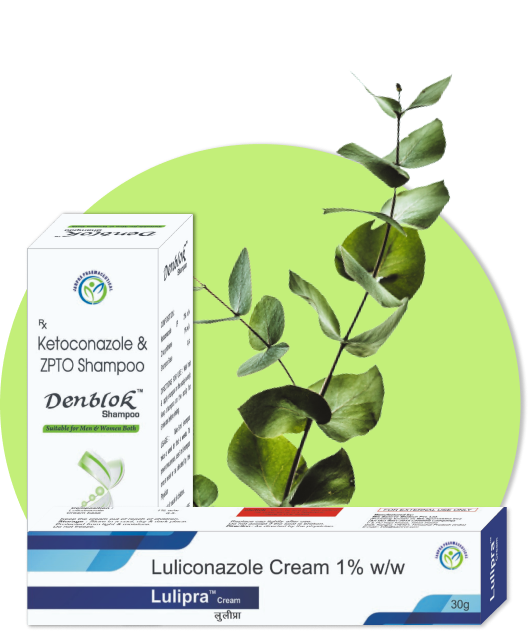
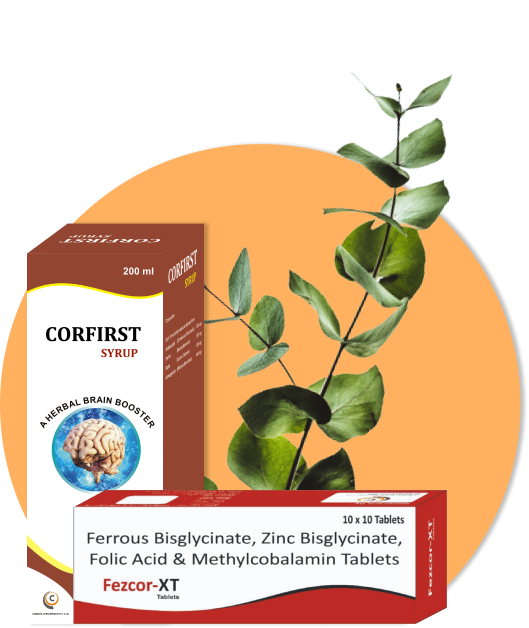
complete about and product

diff --git a/product.html b/product.html
@@ -144,12 +144,12 @@
         <section class="grid product-grid">
           <section class="product">
             <div class="product-img">
-              <img src="img/product/Denblok-shampoo.png" alt="Denblok Shampoo Product Image" loading="lazy" />
+              <img src="img/product/corfirst.png" alt="Corfirst Product Image" loading="lazy" />
             </div>
             <div class="product_details center">
-              <h3 class="head-h3 product_details-h3">Denblok Shampoo</h3>
-              <p class="paragraph paragraph-small product_details-p">For Dandruff Free Hair</p>
-              <button onclick="window.location.href = 'products/denblok.html';" class="btn center product-btn">
+              <h3 class="head-h3 product_details-h3">Corfirst</h3>
+              <p class="paragraph paragraph-small product_details-p">A Herbal Brain Booster</p>
+              <button onclick="window.location.href = 'products/corfirst.html';" class="btn center product-btn">
                 <span>Read More</span>
                 <span class="btn-arrow"><img src="img/common/button-arrow.svg" alt="" /></span>
               </button>
@@ -158,12 +158,12 @@
 
           <section class="product">
             <div class="product-img">
-              <img src="img/product/Hairjan-tablets.png" alt="Denblok Shampoo Product Image" loading="lazy" />
+              <img src="img/product/braincor.png" alt="Braincor Product Image" loading="lazy" />
             </div>
             <div class="product_details center">
-              <h3 class="head-h3 product_details-h3">Hairjan Tablets</h3>
-              <p class="paragraph paragraph-small product_details-p">Give Strenght to avoid Hairloss.</p>
-              <button onclick="window.location.href = 'products/hairjan.html';" class="btn center product-btn">
+              <h3 class="head-h3 product_details-h3">Braincor</h3>
+              <p class="paragraph paragraph-small product_details-p">For rise in new neurons in Brain</p>
+              <button onclick="window.location.href = 'products/braincor.html';" class="btn center product-btn">
                 <span>Read More</span>
                 <span class="btn-arrow"><img src="img/common/button-arrow.svg" alt="" /></span>
               </button>
@@ -172,12 +172,12 @@
 
           <section class="product">
             <div class="product-img">
-              <img src="img/product/Glutapra-tablets.png" alt="Glutapra Tablets Product Image" loading="lazy" />
+              <img src="img/product/bonetouch.png" alt="Bonetouch Product Image" loading="lazy" />
             </div>
             <div class="product_details center">
-              <h3 class="head-h3 product_details-h3">Glutapra</h3>
-              <p class="paragraph paragraph-small product_details-p">For the Glowing and Beautiful Skin</p>
-              <button onclick="window.location.href = 'products/glutapra.html';" class="btn center product-btn">
+              <h3 class="head-h3 product_details-h3">Bonetouch</h3>
+              <p class="paragraph paragraph-small product_details-p">For Strong bone mineralization</p>
+              <button onclick="window.location.href = 'products/bonetouch.html';" class="btn center product-btn">
                 <span>Read More</span>
                 <span class="btn-arrow"><img src="img/common/button-arrow.svg" alt="" /></span>
               </button>
@@ -186,12 +186,12 @@
 
           <section class="product">
             <div class="product-img">
-              <img src="img/product/Crystagold-serum.png" alt="Crystagold-C Serum Product Image" loading="lazy" />
+              <img src="img/product/esicor-plus.png" alt="Esicor-Plus Product Image" loading="lazy" />
             </div>
             <div class="product_details center">
-              <h3 class="head-h3 product_details-h3">Crystaldold - C</h3>
-              <p class="paragraph paragraph-small product_details-p">Gives your skin a Youthful glow</p>
-              <button onclick="window.location.href = 'products/crystagold.html';" class="btn center product-btn">
+              <h3 class="head-h3 product_details-h3">Esicor-Plus</h3>
+              <p class="paragraph paragraph-small product_details-p">Gain Calm & Compose Mind</p>
+              <button onclick="window.location.href = 'products/esicor-plus.html';" class="btn center product-btn">
                 <span>Read More</span>
                 <span class="btn-arrow"><img src="img/common/button-arrow.svg" alt="" /></span>
               </button>
@@ -200,12 +200,12 @@
 
           <section class="product">
             <div class="product-img">
-              <img src="img/product/CBsoft-S.png" alt="Denblok Shampoo Product Image" loading="lazy" />
+              <img src="img/product/pcor-dsr.png" alt="PCOR DSR Product Image" loading="lazy" />
             </div>
             <div class="product_details center">
-              <h3 class="head-h3 product_details-h3">CBsoft - S</h3>
-              <p class="paragraph paragraph-small product_details-p">Delivers Results & Compilance Together</p>
-              <button onclick="window.location.href = 'products/cbsoft-s.html';" class="btn center product-btn">
+              <h3 class="head-h3 product_details-h3">Pcor DSR</h3>
+              <p class="paragraph paragraph-small product_details-p">Stops Production of Acid in Stomach</p>
+              <button onclick="window.location.href = 'products/pcor-dsr.html';" class="btn center product-btn">
                 <span>Read More</span>
                 <span class="btn-arrow"><img src="img/common/button-arrow.svg" alt="" /></span>
               </button>
@@ -214,12 +214,12 @@
 
           <section class="product">
             <div class="product-img">
-              <img src="img/product/KTjan-bodywash.png" alt="KTjan Bodywash Product Image" loading="lazy" />
+              <img src="img/product/fezcor-xt.png" alt="Fezcor-XT Product Image" loading="lazy" />
             </div>
             <div class="product_details center">
-              <h3 class="head-h3 product_details-h3">KTjan Body Wash</h3>
-              <p class="paragraph paragraph-small product_details-p">Tested & Trusted Anti Fungal</p>
-              <button onclick="window.location.href = 'products/ktjan.html';" class="btn center product-btn">
+              <h3 class="head-h3 product_details-h3">Fezcor-XT</h3>
+              <p class="paragraph paragraph-small product_details-p">Delivers maximum gemount of ferrous iron</p>
+              <button onclick="window.location.href = 'products/fezcor-xt.html';" class="btn center product-btn">
                 <span>Read More</span>
                 <span class="btn-arrow"><img src="img/common/button-arrow.svg" alt="" /></span>
               </button>
@@ -228,11 +228,11 @@
 
           <section class="product">
             <div class="product-img">
-              <img src="img/product/Lulipra-cream.png" alt="Denblok Shampoo Product Image" loading="lazy" />
+              <img src="img/product/nervecor-od.png" alt="Nervecor-OD Product Image" loading="lazy" />
             </div>
             <div class="product_details center">
-              <h3 class="head-h3 product_details-h3">Lulipra Cream</h3>
-              <p class="paragraph paragraph-small product_details-p">Cleans & Controls Fungal Infections</p>
+              <h3 class="head-h3 product_details-h3">Nervecor-OD</h3>
+              <p class="paragraph paragraph-small product_details-p">Recharge the Nerve Conduction</p>
               <button onclick="window.location.href = 'products/luliconazole.html';" class="btn center product-btn">
                 <span>Read More</span>
                 <span class="btn-arrow"><img src="img/common/button-arrow.svg" alt="" /></span>
@@ -258,11 +258,11 @@
           <div class="footer_details-info">
             <div>
               <img src="img/footer/call.svg" alt="Call Icon" loading="lazy" />
-              <a href="tel:+9031562651" class="paragraph paragraph-small"> 8507838050 </a>
+              <a href="tel:+8507838050" class="paragraph paragraph-small"> 8507838050 </a>
             </div>
             <div>
               <img src="img/footer/mail.svg" alt="Mail Icon" loading="lazy" />
-              <a href="mailto:info@janprapharma.com" class="paragraph paragraph-small">info@corouslifesciences.com</a>
+              <a href="mailto:info@corouslifesciences.com" class="paragraph paragraph-small">info@corouslifesciences.com</a>
             </div>
           </div>
         </section>

diff --git a/about.html b/about.html
@@ -361,11 +361,11 @@
           <div class="footer_details-info">
             <div>
               <img src="img/footer/call.svg" alt="Call Icon" loading="lazy" />
-              <a href="tel:+9031562651" class="paragraph paragraph-small"> 8507838050 </a>
+              <a href="tel:+8507838050" class="paragraph paragraph-small"> 8507838050 </a>
             </div>
             <div>
               <img src="img/footer/mail.svg" alt="Mail Icon" loading="lazy" />
-              <a href="mailto:info@janprapharma.com" class="paragraph paragraph-small">info@corouslifesciences.com</a>
+              <a href="mailto:info@corouslifesciences.com" class="paragraph paragraph-small">info@corouslifesciences.com</a>
             </div>
           </div>
         </section>

diff --git a/css/product.css b/css/product.css
@@ -96,12 +96,14 @@
 .product {
   width: 100%;
   border-radius: 40px;
-  box-shadow: var(--product-background);
+  box-shadow: var(--box-shadow-product);
   background-color: #fff; }
   .product-img {
     padding: 2rem 1.2rem;
     border-radius: 40px 40px 0 0;
     background-color: var(--background-main); }
+  .product:hover-img {
+    padding: 3rem 2.2rem; }
   .product_details {
     text-align: center;
     padding: 3rem 0;

diff --git a/sass/layout/product/_product.scss b/sass/layout/product/_product.scss
@@ -16,7 +16,7 @@
 .product {
   width: 100%;
   border-radius: 40px;
-  box-shadow: var(--product-background);
+  box-shadow: var(--box-shadow-product);
   background-color: #fff;
 
   &-img {
@@ -29,6 +29,12 @@
     //   margin-top: auto;
     // }
   }
+
+  &:hover {
+    &-img {
+      padding: 3rem 2.2rem;
+    }
+  } 
 
   &_details {
     // height: 34.3%;

diff --git a/css/about.css b/css/about.css
@@ -1,3 +1,9 @@
+body {
+  background-image: url(../../img/about/about-background.svg);
+  background-size: contain;
+  background-position: 0rem 35rem;
+  background-repeat: no-repeat; }
+
 .about-header_container {
   padding: 0 9rem 0 15rem;
   margin: 5rem 0 7rem;

diff --git a/sass/layout/about/_header.scss b/sass/layout/about/_header.scss
@@ -1,3 +1,10 @@
+body {
+  background-image: url(../../img/about/about-background.svg);
+  background-size: contain;
+  background-position: 0rem 35rem;
+  background-repeat: no-repeat;
+}
+
 .about {
   &-header_container {
     padding: 0 9rem 0 15rem;
